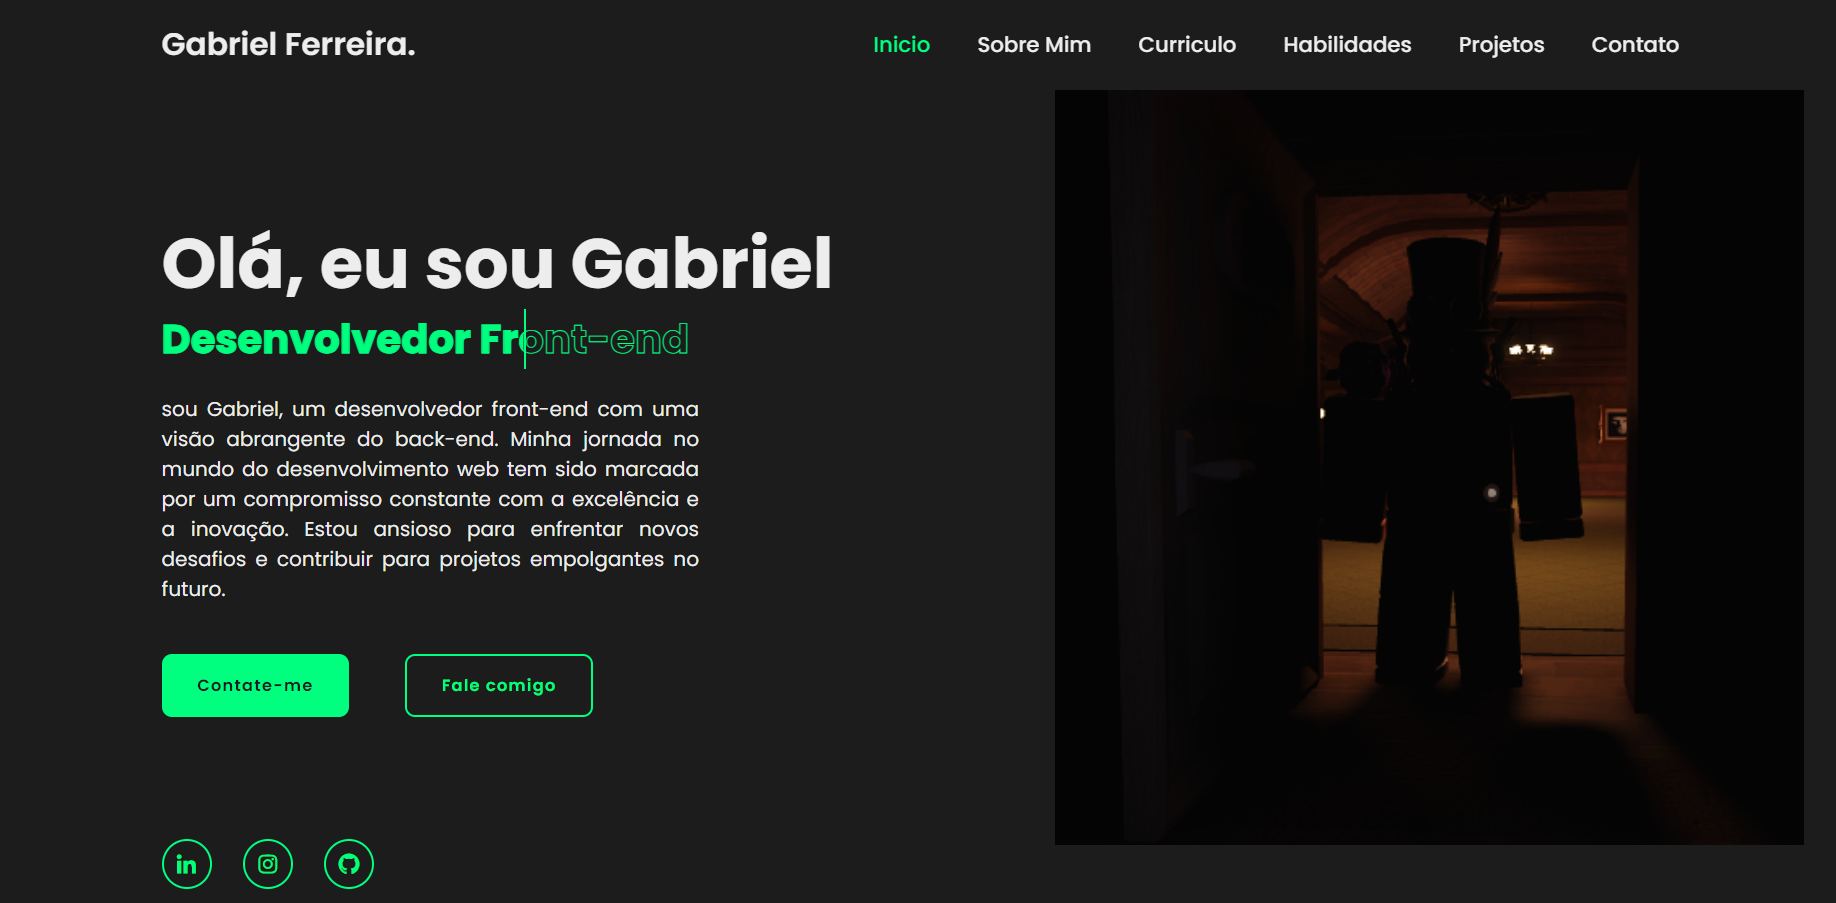
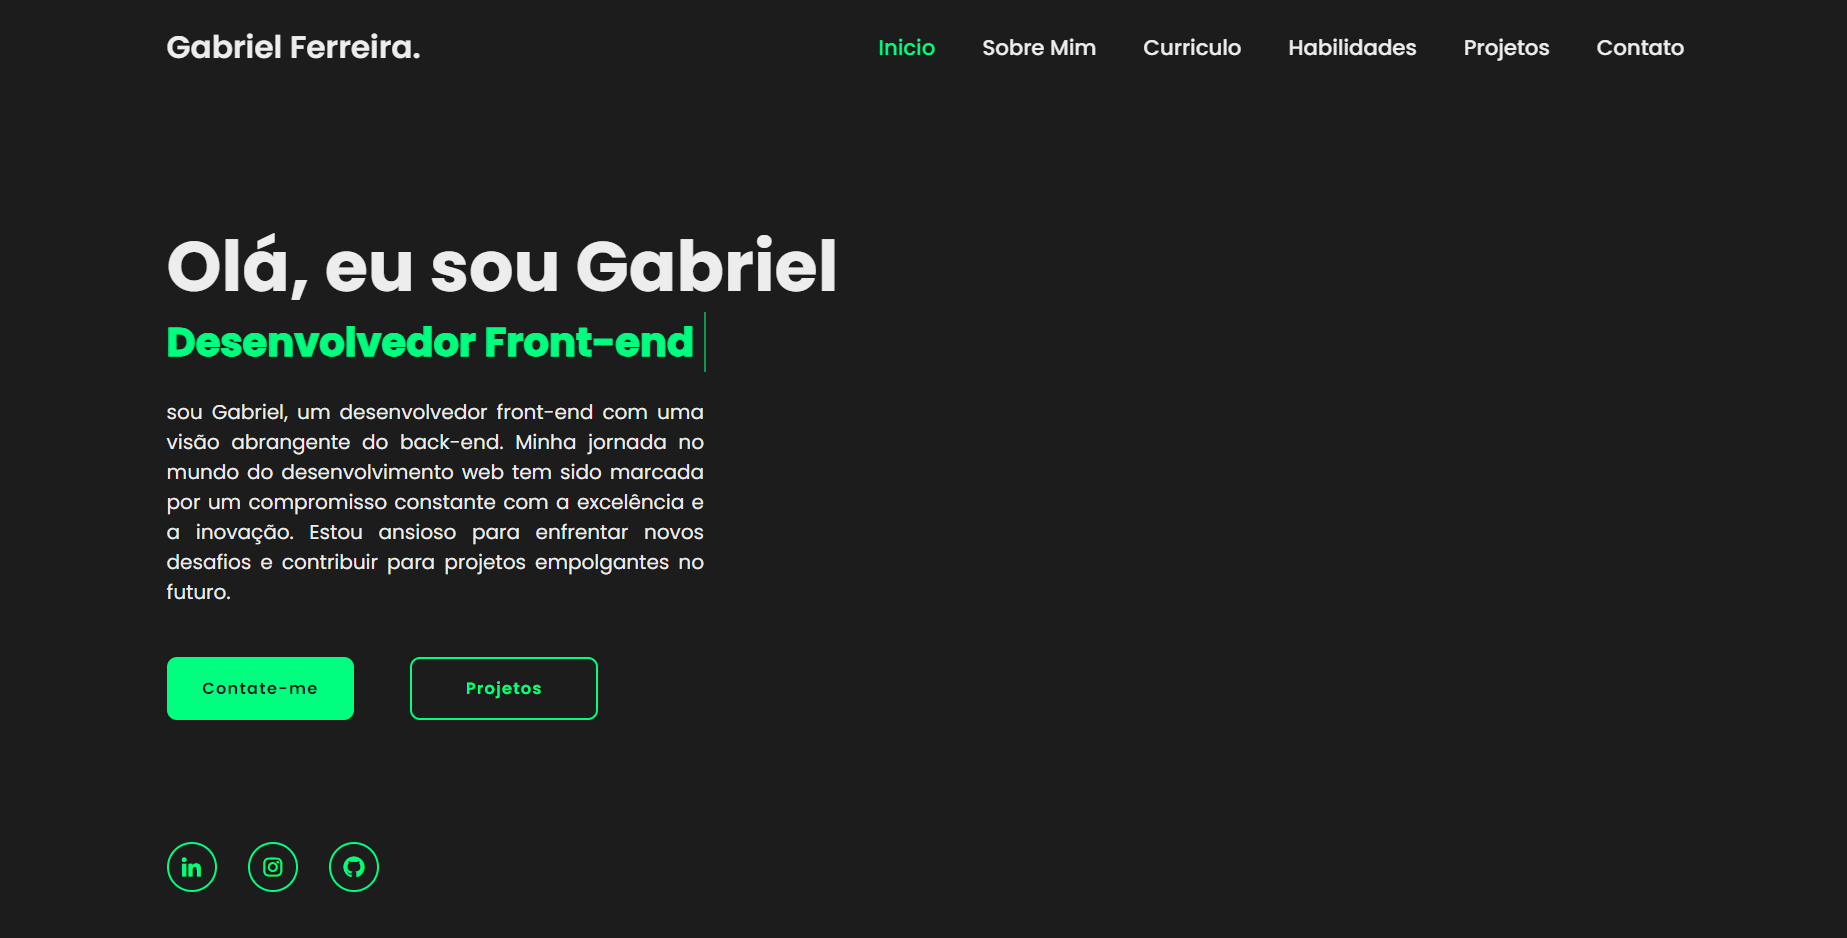
portifolio

diff --git a/index.html b/index.html
@@ -9,7 +9,7 @@
       rel="stylesheet"
     />
 
-    <title>Document</title>
+    <title>Gabriel Ferreira</title>
   </head>
   <body>
     <header class="header">
@@ -26,6 +26,7 @@
         <a href="#about">Sobre Mim</a>
         <a href="#education">Curriculo</a>
         <a href="#skills">Habilidades</a>
+         <a href="#projects">Projetos</a>
         <a href="#contact">Contato</a>
 
         <span class="active-nav"></span>
@@ -54,7 +55,7 @@
           </p>
           <div class="btn-box">
             <a href="#contact" class="btn">Contate-me</a>
-            <a href="#contact" class="btn">Fale comigo</a>
+            <a href="#projects" class="btn">Projetos</a>
             <span class="animate" style="--i: 5"></span>
           </div>
         </div>
@@ -73,6 +74,11 @@
           ></a>
           <span class="animate" style="--i: 6"></span>
         </div>
+
+         <div class="home-imgHover">
+        <img src="assets/roblox.png" alt="" />
+        <span class="animate home-img" style="--i: 7"></span>
+      </div>
       </section>
 
       <section class="about" id="about">
@@ -143,14 +149,12 @@
 
               <div class="education-content">
                 <div class="content">
-                  <div class="year">
-                    <i class="bx bxs-calendar"></i>2021 - 2023
-                  </div>
-                  <h3>Curso Técnico integrado ao ensino médio - Etec</h3>
+                  <div class="year"><i class="bx bxs-calendar"></i>2023</div>
+                  <h3>Curso Front-end - ADA TECH</h3>
                   <p>
-                    Minha experiência na Etec foi fundamental para minha
-                    formação. O curso técnico integrado me deu sólidos
-                    conhecimentos e habilidades práticas.
+                    Ao longo do curso de Front-end na ADA TECH, pude explorar e
+                    aplicar uma variedade de tecnologias e técnicas para criar
+                    interfaces envolventes e funcionais.
                   </p>
                 </div>
               </div>
@@ -174,7 +178,7 @@
 
           <div class="education-column">
             <h3 class="title">
-              Experiência <span class="animate scroll" style="--i: 3"></span>
+              Extras <span class="animate scroll" style="--i: 3"></span>
             </h3>
             <div class="education-box">
               <div class="education-content">
@@ -191,12 +195,12 @@
 
               <div class="education-content">
                 <div class="content">
-                  <div class="year"><i class="bx bxs-calendar"></i>2023</div>
-                  <h3>Curso Front-end - ADA TECH</h3>
+                  <div class="year"><i class="bx bxs-calendar"></i>2021-2023</div>
+                  <h3>Curso Técnico integrado ao ensino médio - Etec</h3>
                   <p>
-                    Ao longo do curso de Front-end na ADA TECH, pude explorar e
-                    aplicar uma variedade de tecnologias e técnicas para criar
-                    interfaces envolventes e funcionais.
+                    Minha experiência na Etec foi fundamental para minha
+                    formação. O curso técnico integrado me deu sólidos
+                    conhecimentos e habilidades práticas.
                   </p>
                 </div>
               </div>
@@ -295,7 +299,76 @@
         </div>
       </section>
 
- 
+      <section class="projects" id="projects">
+      <h2 class="heading">
+        Meus<span> Projetos</span
+        ><span class="animate scroll" style="--i: 1"></span>
+      </h2>
+
+      <div class="grid-projetc">
+        <div class="cards" id="forca">
+          <img class="imagens" src="assets/cadastro.png" alt="" />
+          <span class="conteudo-cards" id="teste">
+            <h4>Pagina de Cadastro</h4>
+            <p>
+              Feito em HTML, CSS. Produzido para a complementação do tcc Gaming Core
+            </p>
+          </span>
+        </div>
+        <div class="cards" id="devlinks">
+          <img class="imagens" src="assets/rocke.png" alt="" />
+          <span class="conteudo-cards" id="teste"
+            ><h4>DEVLINKS</h4>
+            <p>
+              Feito em HTML, CSS e JavaScript. Projeto da Rocketseat
+              desenvolvido para ser uma espécie de linkthree dos programadores.
+            </p></span
+          >
+        </div>
+        <div class="cards" id="shorts">
+          <img class="imagens" src="assets/tabels.png" alt="" />
+          <span class="conteudo-cards" id="teste"
+            ><h4>Tags e funcionalidades</h4>
+            <p>
+              Feito em HTML, CSS. Projeto utilizando apenas tabelas para criar um site informativo.
+            </p></span
+          >
+        </div>
+        <div class="cards" id="gc">
+          <img class="imagens" src="assets/gc.png" alt="" />
+          <span class="conteudo-cards" id="teste"
+            ><h4>GAMING CORE</h4>
+            <p>
+              Feito em HTML, CSS, JavaScript, PHP e MySQL. Site desenvolvido
+              pela minha equipe do TCC. O site é uma rede social gamer, voltado
+              para interação entre gamers.
+            </p></span
+          >
+        </div>
+        <div class="cards" id="crud">
+          <img class="imagens" src="assets/form.png" alt="" />
+          <span class="conteudo-cards" id="teste"
+            ><h4>Formulario</h4>
+            <p>
+              Feito em HTML, CSS. Um projeto simples apenas para
+             relembrar as tags inputs existentes.
+            </p></span
+          >
+        </div>
+        <div class="cards" id="portfolio">
+          <img class="imagens" src=".github/captura.png" alt="" />
+          <span class="conteudo-cards" id="teste"
+            ><h4>PORTFÓLIO</h4>
+            <p>
+              Feito em HTML, CSS e JavaScript. Meu porfólio pessoal para
+              apresentar quem sou, o que faço, minhas habilidades e projetos que
+              já desenvolvi ao longo da minha carreira.
+            </p></span
+          >
+        </div>
+        <span class="animate scroll" style="--i: 3"></span>
+      </div>
+    </section>
 
       <section class="contact" id="contact">
         <h2 class="heading">

diff --git a/style.css b/style.css
@@ -21,7 +21,6 @@
 
 html {
   font-size: 62.5%;
-
 }
 
 body {
@@ -187,7 +186,7 @@ section {
   text-align: justify;
   text-justify: inter-word;
 }
-/* 
+
 .home-imgHover {
   display: flex;
   align-items: center;
@@ -202,7 +201,7 @@ section {
 .home-imgHover:hover {
   background: var(--bg-color);
   opacity: 0.8;
-} */
+}
 
 .btn-box {
   position: relative;
@@ -300,18 +299,19 @@ section {
   height: 100%;
 
   z-index: -1;
-  transition: 0.5s;
+  transition: all 0.6s;
 }
 
 .home-sci a:hover {
   background: var(--second-bg-color);
+  transform: scale(1.25);
 }
 
 .home-sci a:hover::before {
   width: 100%;
 }
 
-/* .home-imgHover {
+.home-imgHover {
   position: absolute;
   top: 0;
   right: 0;
@@ -319,12 +319,11 @@ section {
   height: 100%;
   background: transparent;
   transition: 0.5s;
-} */
-/* 
-.home-imgHover:hover {
+}
+*/ .home-imgHover:hover {
   background-color: var(--bg-color);
   opacity: 0.8;
-} */
+}
 
 .about {
   display: flex;
@@ -786,7 +785,8 @@ section:nth-child(add) .animate.scroll,
 .education.show-animate .animate.scroll,
 .skills.show-animate .animate.scroll,
 .contact.show-animate .animate.scroll,
-.footer.show-animate .animate.scroll{
+.footer.show-animate .animate.scroll,
+.projects.show-animate .animate.scroll {
   transition-delay: calc(0.3s * var(--i));
   width: 0;
 }
@@ -797,17 +797,96 @@ section:nth-child(add) .animate.scroll,
   }
 }
 
+.projects {
+  min-height: auto;
+  padding-bottom: 7rem;
+}
+.grid-projetc {
+  position: relative;
+  display: grid;
+  grid-template-columns: repeat(3, 1fr);
+  grid-template-rows: repeat(2, 1fr);
+  gap: 1rem;
+}
+
+.grid-projetc > .cards {
+  display: flex;
+  flex-direction: column;
+  justify-content: center;
+  align-items: center;
+  margin-top: 1rem;
+  border-radius: 1rem;
+  overflow: hidden;
+  position: relative;
+  cursor: pointer;
+  border: 0.1rem solid var(--text-color);
+}
+
+.cards h3 {
+  font-size: 1.8rem;
+  width: 100%;
+  height: 3rem;
+  display: flex;
+  justify-content: center;
+  align-items: center;
+  background-color: rgba(247, 217, 217, 0.877);
+  color: var(--text-color);
+}
+
+.cards img {
+  width: 100%;
+  height: 100%;
+}
+
+.conteudo-cards {
+  position: absolute;
+  display: flex;
+  justify-content: center;
+  align-items: center;
+  flex-direction: column;
+  color: wheat;
+  width: 100%;
+  height: 100%;
+  background-color: rgba(0, 0, 0, 0.658);
+  opacity: 0;
+  transition: 0.2s ease-in-out;
+}
+
+.conteudo-cards h4 {
+  font-size: 2.5rem;
+  color: #fff;
+  padding-bottom: 3rem;
+}
+
+.conteudo-cards p {
+  font-size: 1.4rem;
+  text-align: center;
+  width: 80%;
+  color: #c0b4b4;
+}
+
+.cards:hover > .conteudo-cards {
+  opacity: 1;
+}
 
 /* Responsividade */
 
 @media (max-width: 1200px) {
   html {
-    font-size: 55%;
+    font-size: 40%;
   }
-  /* .home-imgHover img {
+
+  .conteudo-cards h4 {
+    font-size: 2.1rem;
+  }
+
+  .conteudo-cards p {
+    font-size: 1rem;
+  }
+  .home-imgHover img {
     width: 90%;
     height: 40%;
-  } */
+  }
 }
 
 @media (max-width: 991px) {
@@ -826,21 +905,25 @@ section:nth-child(add) .animate.scroll,
     padding: 2rem 4%;
   }
 
-  /* .home-imgHover img {
+  .home-imgHover img {
     width: 90%;
     height: 30%;
-  } */
+  }
 }
 
-@media (max-width: 850px){
-  /* .animate.home-img{
+@media (max-width: 850px) {
+  .animate.home-img {
     width: 55%;
-  } */
+  }
 }
 
 @media (max-width: 768px) {
   .header {
     background: var(--bg-color);
+  }
+
+  .home-imgHover {
+    display: none;
   }
 
   #menu-icon {
@@ -897,8 +980,19 @@ section:nth-child(add) .animate.scroll,
     transition-delay: 0.25s;
   }
 
-}
+  .grid-projetc {
+    display: flex;
+    flex-direction: column;
+  }
 
+  .conteudo-cards h4 {
+    font-size: 2.5rem;
+  }
+
+  .conteudo-cards p {
+    font-size: 1.7rem;
+  }
+}
 
 @media (max-width: 520px) {
   html {
